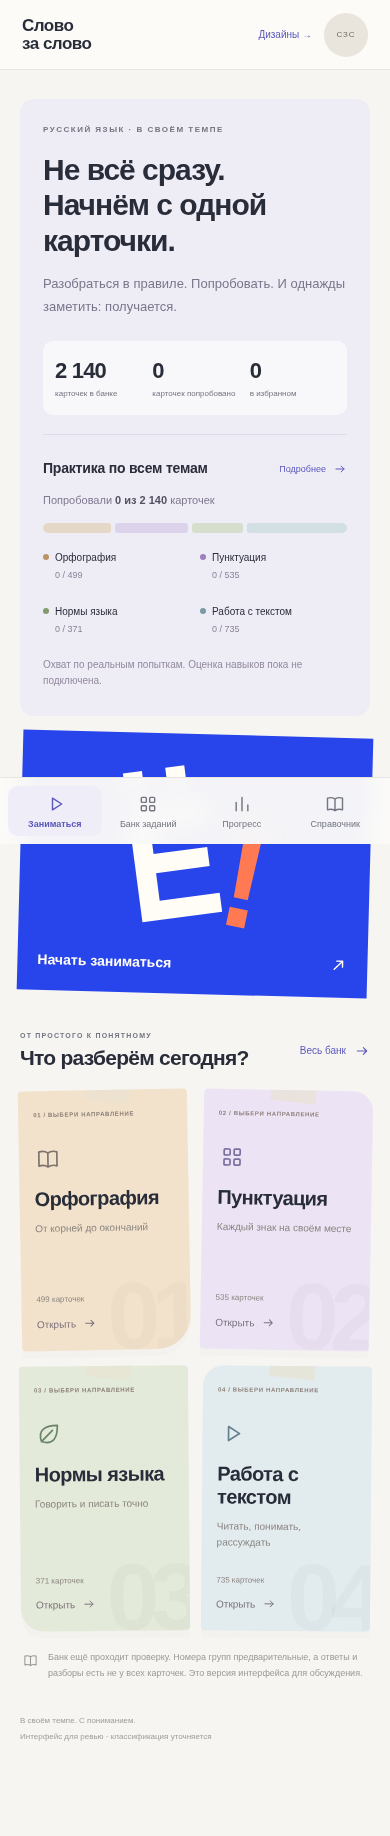
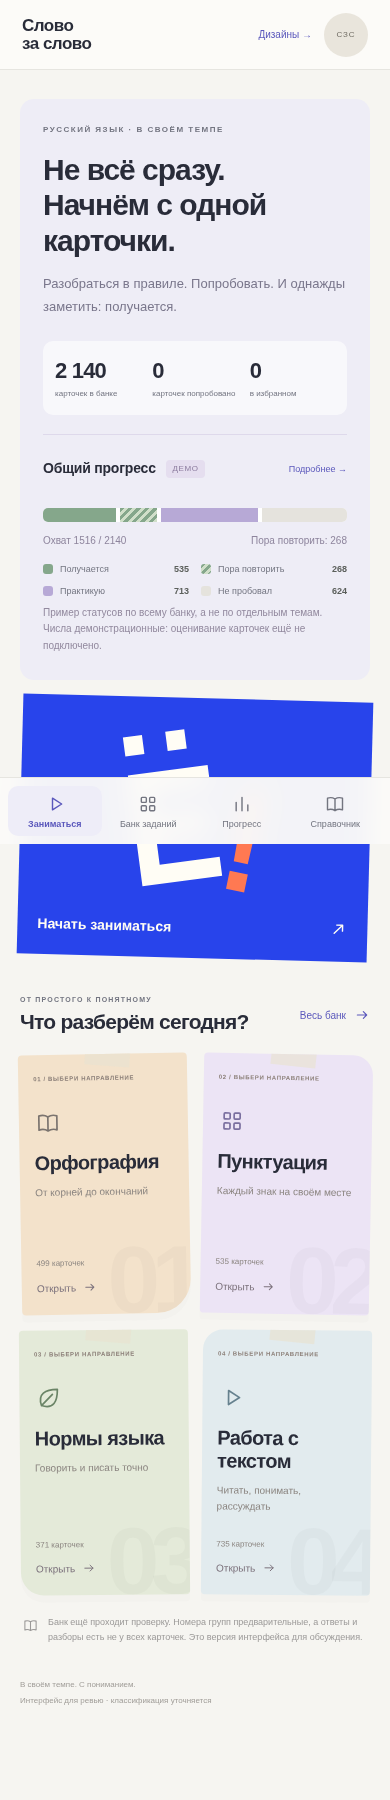
design: show one aggregate status bar across the full card bank

diff --git a/html/js/app.js b/html/js/app.js
@@ -1,4 +1,7 @@
-import { renderProgressPreview } from "./progress-preview.js";
+import {
+  renderProgressPreview,
+  renderGlobalCardProgressPreview,
+} from "./progress-preview.js";
 import { loadCatalog, loadCard } from "./data.js";
 import { store } from "./store.js";
 import { services } from "./services.js";
@@ -130,18 +133,10 @@ function renderStudy() {
     catalog.cards.find((c) => c.id === store.lastCard) ||
     catalog.cards.find((c) => c.hasAnswer && c.task === 4) ||
     catalog.cards[0];
-  const topicCoverage = topics.map((t) => {
-    const cards = topicCards(t);
-    return {
-      ...t,
-      total: cards.length,
-      tried: cards.filter((c) => s.practiced.has(c.id)).length,
-    };
-  });
   main.innerHTML = `
     <div class="study-intro">
       <section class="hero study-hero" aria-labelledby="hero-title">
-        <div class="hero-copy"><span class="eyebrow">РУССКИЙ ЯЗЫК · В СВОЁМ ТЕМПЕ</span><h1 id="hero-title">Не всё сразу.<br>Начнём с одной карточки.</h1><p>Разобраться в правиле. Попробовать.<br> И однажды заметить: получается.</p><section class="stat-strip" aria-label="Ваши результаты"><div>${icon("bank")}<span><strong>${num(catalog.cards.length)}</strong><small>карточек в банке</small></span></div><div>${icon("check")}<span><strong>${s.practiced.size}</strong><small>карточек попробовано</small></span></div><div>${icon("bookmark")}<span><strong>${catalog.cards.filter((c) => store.tags(c.id).fav).length}</strong><small>в избранном</small></span></div></section><section class="home-coverage" aria-label="Практика по всем темам"><div class="home-coverage-title"><h2>Практика по всем темам</h2><a href="#progress?view=history">Подробнее ${icon("arrow")}</a></div><p class="home-coverage-total">Попробовали <strong>${s.practiced.size} из ${num(catalog.cards.length)}</strong> карточек</p><div class="home-coverage-bar" role="progressbar" aria-label="Охват карточек по всем темам" aria-valuemin="0" aria-valuemax="${catalog.cards.length}" aria-valuenow="${s.practiced.size}">${topicCoverage.map((t) => `<span class="home-coverage-segment ${t.color}" style="flex:${t.total}" aria-hidden="true"><span style="width:${t.total ? (t.tried / t.total) * 100 : 0}%"></span></span>`).join("")}</div><div class="home-coverage-legend">${topicCoverage.map((t, i) => `<a href="#bank?topic=${i}"><i class="home-coverage-dot ${t.color}" aria-hidden="true"></i><span>${t.name}<small>${t.tried} / ${t.total}</small></span></a>`).join("")}</div><p class="home-coverage-caption">Охват по реальным попыткам. Оценка навыков пока не подключена.</p></section></div>
+        <div class="hero-copy"><span class="eyebrow">РУССКИЙ ЯЗЫК · В СВОЁМ ТЕМПЕ</span><h1 id="hero-title">Не всё сразу.<br>Начнём с одной карточки.</h1><p>Разобраться в правиле. Попробовать.<br> И однажды заметить: получается.</p><section class="stat-strip" aria-label="Ваши результаты"><div>${icon("bank")}<span><strong>${num(catalog.cards.length)}</strong><small>карточек в банке</small></span></div><div>${icon("check")}<span><strong>${s.practiced.size}</strong><small>карточек попробовано</small></span></div><div>${icon("bookmark")}<span><strong>${catalog.cards.filter((c) => store.tags(c.id).fav).length}</strong><small>в избранном</small></span></div></section>${renderGlobalCardProgressPreview(catalog.cards.length)}</div>
       </section>
       <a class="study-poster" href="#card/${candidate.id}" aria-label="Начать заниматься"><div class="poster-face"><span class="poster-art" aria-hidden="true"><svg class="poster-glyph" viewBox="0 0 300 260" fill="none"><g fill="currentColor" transform="rotate(-9 130 130)"><path d="M62 18h27v27H62zM122 18h27v27h-27zM62 72h113v27H90v37h76v27H90v39h85v27H62z"/></g><g fill="#ff7952" transform="rotate(10 220 165)"><path d="M209 99h26l-3 103h-20zM209 216h26v26h-26z"/></g></svg></span><span class="poster-cta">Начать заниматься</span><span class="poster-arrow">${icon("arrow")}</span></div></a>
 

diff --git a/html/css/app.css b/html/css/app.css
@@ -3135,90 +3135,6 @@ dialog form {
   width: 14px;
   height: 14px;
 }
-.study-hero .home-coverage-total {
-  font-size: 11px;
-  margin: 0 0 13px;
-  color: #80788f;
-}
-.home-coverage-total strong {
-  font-weight: 550;
-  color: #555062;
-}
-.home-coverage-bar {
-  display: flex;
-  gap: 4px;
-  height: 10px;
-  overflow: hidden;
-  border-radius: 5px;
-}
-.home-coverage-segment {
-  display: block;
-  min-width: 0;
-  overflow: hidden;
-  background: #ded9e6;
-  border-radius: 3px;
-}
-.home-coverage-segment > span {
-  display: block;
-  height: 100%;
-  background: #8d79b4;
-}
-.home-coverage-segment.peach {
-  background: #e5d8c7;
-}
-.home-coverage-segment.peach > span,
-.home-coverage-dot.peach {
-  background: #bb9366;
-}
-.home-coverage-segment.lilac {
-  background: #dcd2e9;
-}
-.home-coverage-segment.lilac > span,
-.home-coverage-dot.lilac {
-  background: #9d7fbd;
-}
-.home-coverage-segment.sage {
-  background: #d6dfce;
-}
-.home-coverage-segment.sage > span,
-.home-coverage-dot.sage {
-  background: #819a6f;
-}
-.home-coverage-segment.blue {
-  background: #d2dfe3;
-}
-.home-coverage-segment.blue > span,
-.home-coverage-dot.blue {
-  background: #7b9aa5;
-}
-.home-coverage-legend {
-  display: grid;
-  grid-template-columns: repeat(4, minmax(0, 1fr));
-  gap: 12px;
-  margin-top: 17px;
-}
-.home-coverage-legend > a {
-  display: flex;
-  align-items: flex-start;
-  gap: 6px;
-  font-size: 9px;
-  line-height: 1.5;
-  min-height: 44px;
-}
-.home-coverage-dot {
-  display: block;
-  width: 6px;
-  height: 6px;
-  border-radius: 50%;
-  flex-shrink: 0;
-  margin-top: 4px;
-}
-.home-coverage-legend small {
-  display: block;
-  color: #8c8398;
-  font-size: 9px;
-  margin-top: 4px;
-}
 .study-hero .home-coverage-caption {
   font-size: 9px;
   color: #92899e;
@@ -3226,10 +3142,6 @@ dialog form {
   line-height: 1.65;
 }
 @media (max-width: 1000px) {
-  .home-coverage-legend {
-    grid-template-columns: 1fr 1fr;
-    gap: 10px;
-  }
   .home-coverage-title {
     gap: 10px;
   }
@@ -3242,17 +3154,8 @@ dialog form {
     margin-top: 21px;
     padding-top: 15px;
   }
-  .home-coverage-legend > a {
-    font-size: 10px;
-  }
-  .home-coverage-legend small {
-    font-size: 9px;
-  }
   .study-hero .home-coverage-caption {
     font-size: 10px;
-  }
-  .study-hero .home-coverage-total {
-    font-size: 11px;
   }
   .home-coverage-title > a {
     font-size: 9px;
@@ -3333,5 +3236,51 @@ dialog form {
   }
   .study-hero .stat-strip small {
     font-size: 7px;
+  }
+}
+
+.aggregate-demo .skill-bar {
+  margin-top: 17px;
+  height: 14px;
+  gap: 4px;
+}
+.aggregate-caption {
+  display: flex;
+  justify-content: space-between;
+  gap: 12px;
+  margin-top: 13px;
+  font-size: 11px;
+  color: #8e859d;
+}
+.aggregate-demo-badge {
+  display: inline-block;
+  margin-left: 7px;
+  padding: 4px 6px;
+  border-radius: 4px;
+  background: #e5deef;
+  color: #8a7a9d;
+  font-size: 8px;
+  font-weight: 500;
+  vertical-align: middle;
+  letter-spacing: 0.6px;
+}
+.aggregate-demo .skill-legend {
+  gap: 10px 15px;
+  margin: 18px 0 0;
+  font-size: 9px;
+}
+.aggregate-demo .skill-legend b {
+  font-size: 9px;
+}
+@media (max-width: 760px) {
+  .aggregate-caption {
+    font-size: 10px;
+    gap: 8px;
+  }
+  .aggregate-demo .skill-legend {
+    display: grid;
+    grid-template-columns: 1fr 1fr;
+    gap: 12px;
+    font-size: 9px;
   }
 }

diff --git a/html/js/progress-preview.js b/html/js/progress-preview.js
@@ -140,3 +140,18 @@ export function renderProgressPreview(params) {
     ${selected !== null || dueOnly ? `<section class="panel skill-detail" id="skill-detail"><div class="section-heading"><div><span class="eyebrow">ПРИМЕР КАРТЫ НАВЫКОВ</span><h2>${dueOnly ? "Пора повторить" : topics[selected].name}</h2><p>Нажмите на навык — увидите основание статуса.</p></div><a class="text-link" href="${link(scenario)}">Свернуть ×</a></div>${(dueOnly ? topics.flatMap((t) => t.skills).filter((s) => s.status === "due") : topics[selected].skills).map(skillRow).join("")}${!dueOnly ? `<a class="button secondary" href="#bank?topic=${selected}">Посмотреть текущий банк по теме →</a><p class="skill-bank-note">Переход к существующим карточкам. Точное соответствие этим демонстрационным навыкам ещё не размечено.</p>` : ""}</section>` : '<p class="coverage-hint">Выберите тему выше: внутри — понятные статусы и основания, без сложного графа.</p>'}
     <details class="quality-disclosure"><summary>А насколько готов сам банк?</summary><p>Это отдельный показатель качества материалов, а не ваших знаний. В рабочей версии здесь появятся проверенность ответов, объяснений и покрытие навыков упражнениями. Недоступный материал не должен уменьшать знаменатель и искусственно повышать ваш процент.</p></details>`;
 }
+
+/** Layout-only distribution over the entire catalog; not inferred from attempts. */
+export function renderGlobalCardProgressPreview(total) {
+  const weights = [6, 3, 8, 7];
+  const exact = weights.map((weight) => (total * weight) / 24);
+  const values = exact.map(Math.floor);
+  const remaining = total - values.reduce((sum, value) => sum + value, 0);
+  const order = exact
+    .map((value, i) => ({ i, fraction: value - values[i] }))
+    .sort((a, b) => b.fraction - a.fraction || a.i - b.i);
+  for (let i = 0; i < remaining; i++) values[order[i].i]++;
+  const counts = Object.fromEntries(states.map(([id], i) => [id, values[i]]));
+  const summary = { total, counts };
+  return `<section class="home-coverage aggregate-demo" aria-label="Пример суммарного прогресса по всем карточкам"><div class="home-coverage-title"><h2>Общий прогресс <span class="aggregate-demo-badge">ДЕМО</span></h2><a href="#progress">Подробнее →</a></div>${bar(summary)}<div class="aggregate-caption"><span>Охват ${total - counts.not_started} / ${total}</span><span>Пора повторить: ${counts.due}</span></div>${legend(summary)}<p class="home-coverage-caption">Пример статусов по всему банку, а не по отдельным темам. Числа демонстрационные: оценивание карточек ещё не подключено.</p></section>`;
+}

diff --git a/tests/composed_home_smoke.py b/tests/composed_home_smoke.py
@@ -45,8 +45,10 @@ def main():
                 assert page.locator('.study-hero .button').count() == 0
                 assert page.locator('.study-hero .stat-strip').count() == 1
                 assert page.evaluate("document.querySelector('.home-coverage').previousElementSibling.matches('.stat-strip')")
-                assert page.locator('.home-coverage-bar').get_attribute('aria-valuenow') == '0'
-                assert page.locator('.home-coverage-legend a').count() == 4
+                assert page.locator('.aggregate-demo .skill-segment').count() == 4
+                assert page.locator('.aggregate-demo-badge').inner_text() == 'ДЕМО'
+                assert 'Охват 1516 / 2140' in page.locator('.aggregate-caption').inner_text()
+                assert 'Пора повторить: 268' in page.locator('.aggregate-caption').inner_text()
                 assert page.locator('.stat-strip strong').nth(1).inner_text() == '0'
                 assert page.evaluate('document.documentElement.scrollWidth <= innerWidth'), width
                 if width > 760:
@@ -74,7 +76,7 @@ def main():
                     time: new Date().toISOString(), correct: false, assisted: false})), lastCard: id
             }))""", card_id)
             page.goto(base, wait_until='networkidle')
-            assert page.locator('.home-coverage-bar').get_attribute('aria-valuenow') == '1'
+            assert 'Охват 1516 / 2140' in page.locator('.aggregate-caption').inner_text()
             assert page.locator('.stat-strip strong').nth(1).inner_text() == '1'
             assert not errors, errors
             browser.close()

diff --git a/docs/composed-home.md b/docs/composed-home.md
@@ -31,6 +31,8 @@
 
 Учебные JSON, правила оценивания и три отдельные страницы вариантов дизайна не изменены.
 
-## Охват карточек на главной
+## Суммарная полоса статусов на главной
 
-Общий бар показывает количество уникальных карточек с реальными попытками относительно текущего каталога. Повторные попытки одной карточки не увеличивают охват. Каждый из четырёх сегментов занимает долю, соответствующую числу карточек темы; заполнение внутри — tried/total этой темы. Подписи содержат точные счётчики. Это не процент освоенных навыков и не демонстрационные данные нового дашборда. Ссылка «Подробнее» открывает настоящую историю.
+Под реальными счётчиками — одна полоса по всему банку карточек. Сегменты означают состояния, а не темы: получается (зелёный), пора повторить (штриховка), практикую (сиреневый), не пробовал (серый). Под полосой суммарный охват и число карточек для повторения. Строки отдельных тем убраны.
+
+Пока показан явно обозначенный демонстрационный пример, пропорционально распределённый на текущий размер каталога. Для 2140 карточек: 535 получается, 268 пора повторить, 713 практикую, 624 не пробовал; охват 1516/2140. Это фикстура для ревью внешнего вида, не выводы о пользователе и не преобразование навыков в доказанные результаты карточек. Реальные счётчики над полосой не меняются от демонстрации. Для настоящего расчёта требуются утверждённая политика статусов карточек и проверенные материалы.
